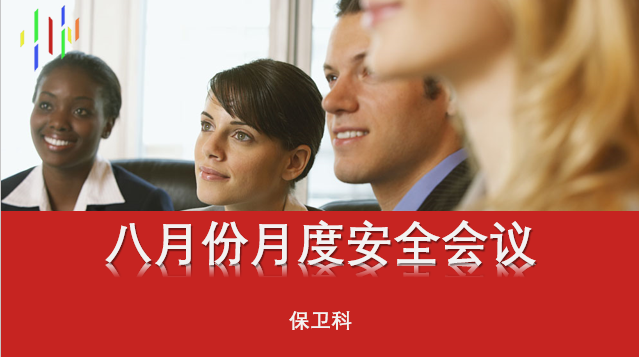
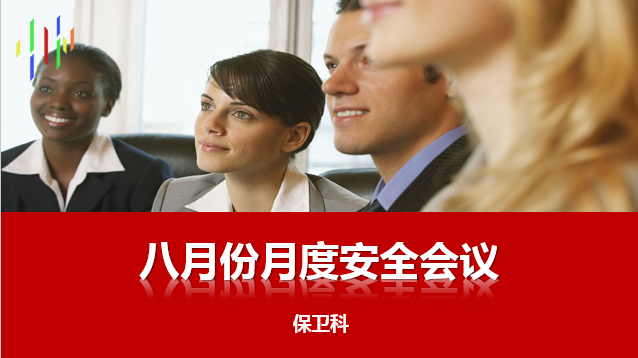
Site updated: 2017-06-08 19:57:51

diff --git a/2017/06/06/Introduction-to-PPT/index.html b/2017/06/06/Introduction-to-PPT/index.html
@@ -15,13 +15,14 @@
 <h5 id="大图格式二"><a href="#大图格式二" class="headerlink" title="大图格式二"></a>大图格式二</h5><p><img src="/2017/06/06/Introduction-to-PPT/1-2.png" alt="大图格式二"></p>
 <h5 id="大图格式三"><a href="#大图格式三" class="headerlink" title="大图格式三"></a>大图格式三</h5><p><img src="/2017/06/06/Introduction-to-PPT/1-3.png" alt="大图格式三"></p>
 <h5 id="大图格式四"><a href="#大图格式四" class="headerlink" title="大图格式四"></a>大图格式四</h5><p><img src="/2017/06/06/Introduction-to-PPT/1-4.png" alt="大图格式四"></p>
-<h5 id="图片调整"><a href="#图片调整" class="headerlink" title="图片调整"></a>图片调整</h5><ul>
+<h5 id="大图格式五"><a href="#大图格式五" class="headerlink" title="大图格式五"></a>大图格式五</h5><h6 id="图片调整"><a href="#图片调整" class="headerlink" title="图片调整"></a>图片调整</h6><ul>
 <li>明暗  – 更正（亮度、对比度）</li>
 <li>色调 – 颜色（饱和度、色调、透明色）</li>
 <li>删除背景</li>
 </ul>
 <p><img src="/2017/06/06/Introduction-to-PPT/1-5.png" alt="删除背景"></p>
-<h5 id="突出文字"><a href="#突出文字" class="headerlink" title="突出文字"></a>突出文字</h5><p><img src="/2017/06/06/Introduction-to-PPT/1-6.png" alt="突出文字"></p>
+<h6 id="突出文字"><a href="#突出文字" class="headerlink" title="突出文字"></a>突出文字</h6><p><img src="/2017/06/06/Introduction-to-PPT/1-6.png" alt="突出文字"></p>
+<p><img src="/2017/06/06/Introduction-to-PPT/1-6-1.png" alt="大图格式五"></p>
 <h5 id="大图格式六"><a href="#大图格式六" class="headerlink" title="大图格式六"></a>大图格式六</h5><p>边缘减弱 – 渐变填充，过渡 – 位置0%，白色，透明0% ；线性向右； 位置100%，白色，透明100% </p>
 <p>文字 – 统一方向对齐</p>
 <p><img src="/2017/06/06/Introduction-to-PPT/1-7.png" alt="大图格式六"></p>
@@ -86,5 +87,5 @@
 <h4 id="1-4-小图型"><a href="#1-4-小图型" class="headerlink" title="1.4 小图型"></a>1.4 小图型</h4><p>搭配腰线，可带阴影</p>
 <p><img src="/2017/06/06/Introduction-to-PPT/1-24.png" alt="小图阴影"></p>
 <p><img src="/2017/06/06/Introduction-to-PPT/1-25.png" alt="小图格式一"></p>
-<h3 id="2-目录页"><a href="#2-目录页" class="headerlink" title="2. 目录页"></a>2. 目录页</h3><h3 id="3-过渡页"><a href="#3-过渡页" class="headerlink" title="3. 过渡页"></a>3. 过渡页</h3><h3 id="4-内容页"><a href="#4-内容页" class="headerlink" title="4. 内容页"></a>4. 内容页</h3><h3 id="5-导航页码"><a href="#5-导航页码" class="headerlink" title="5. 导航页码"></a>5. 导航页码</h3><h3 id="6-结束页"><a href="#6-结束页" class="headerlink" title="6. 结束页"></a>6. 结束页</h3><h3 id="7-整体"><a href="#7-整体" class="headerlink" title="7. 整体"></a>7. 整体</h3><h3 id="8-自动化"><a href="#8-自动化" class="headerlink" title="8. 自动化"></a>8. 自动化</h3><h3 id="9-动画"><a href="#9-动画" class="headerlink" title="9. 动画"></a>9. 动画</h3><h3 id="10-放映"><a href="#10-放映" class="headerlink" title="10. 放映"></a>10. 放映</h3></div><div class="tags"><a href="/tags/PPT/">PPT</a></div><div class="post-share"><div class="bdsharebuttonbox"><span style="float:left;line-height: 28px;height: 28px;font-size:16px;font-weight:blod">分享到：</span><a href="#" data-cmd="more" class="bds_more"></a><a href="#" data-cmd="mshare" title="分享到一键分享" class="bds_mshare"></a><a href="#" data-cmd="fbook" title="分享到Facebook" class="bds_fbook"></a><a href="#" data-cmd="twi" title="分享到Twitter" class="bds_twi"></a><a href="#" data-cmd="linkedin" title="分享到linkedin" class="bds_linkedin"></a><a href="#" data-cmd="youdao" title="分享到有道云笔记" class="bds_youdao"></a><a href="#" data-cmd="evernotecn" title="分享到印象笔记" class="bds_evernotecn"></a><a href="#" data-cmd="weixin" title="分享到微信" class="bds_weixin"></a><a href="#" data-cmd="qzone" title="分享到QQ空间" class="bds_qzone"></a><a href="#" data-cmd="tsina" title="分享到新浪微博" class="bds_tsina"></a></div></div><div class="post-nav"><a href="/2017/06/02/Introduction-to-DOM/" class="pre">Introduction to DOM</a></div><div id="comments"></div></div></div></div><div class="layout-r"><div id="sidebar"><div class="search-pla"></div><div id="toc" class="widget"><div class="widget-title"><i class="fa fa-fei">Inhalte</i></div><ol class="toc"><li class="toc-item toc-level-2"><a class="toc-link" href="#商务PPT入门"><span class="toc-text">商务PPT入门</span></a><ol class="toc-child"><li class="toc-item toc-level-3"><a class="toc-link" href="#1-封面页"><span class="toc-text">1. 封面页</span></a><ol class="toc-child"><li class="toc-item toc-level-4"><a class="toc-link" href="#1-1-大图"><span class="toc-text">1.1 大图</span></a><ol class="toc-child"><li class="toc-item toc-level-5"><a class="toc-link" href="#大图格式一"><span class="toc-text">大图格式一</span></a></li><li class="toc-item toc-level-5"><a class="toc-link" href="#大图格式二"><span class="toc-text">大图格式二</span></a></li><li class="toc-item toc-level-5"><a class="toc-link" href="#大图格式三"><span class="toc-text">大图格式三</span></a></li><li class="toc-item toc-level-5"><a class="toc-link" href="#大图格式四"><span class="toc-text">大图格式四</span></a></li><li class="toc-item toc-level-5"><a class="toc-link" href="#图片调整"><span class="toc-text">图片调整</span></a></li><li class="toc-item toc-level-5"><a class="toc-link" href="#突出文字"><span class="toc-text">突出文字</span></a></li><li class="toc-item toc-level-5"><a class="toc-link" href="#大图格式六"><span class="toc-text">大图格式六</span></a></li><li class="toc-item toc-level-5"><a class="toc-link" href="#大图格式七"><span class="toc-text">大图格式七</span></a></li></ol></li></ol></li><li class="toc-item toc-level-3"><a class="toc-link" href="#1-2-多图"><span class="toc-text">1.2 多图</span></a><ol class="toc-child"><li class="toc-item toc-level-5"><a class="toc-link" href="#多图格式一"><span class="toc-text">多图格式一</span></a></li><li class="toc-item toc-level-5"><a class="toc-link" href="#多图格式二"><span class="toc-text">多图格式二</span></a></li><li class="toc-item toc-level-5"><a class="toc-link" href="#多图格式三"><span class="toc-text">多图格式三</span></a></li><li class="toc-item toc-level-5"><a class="toc-link" href="#多图格式四"><span class="toc-text">多图格式四</span></a></li><li class="toc-item toc-level-5"><a class="toc-link" href="#多图格式五"><span class="toc-text">多图格式五</span></a></li><li class="toc-item toc-level-5"><a class="toc-link" href="#融合背景的形状"><span class="toc-text">融合背景的形状</span></a></li><li class="toc-item toc-level-5"><a class="toc-link" href="#多图格式六"><span class="toc-text">多图格式六</span></a></li></ol></li><li class="toc-item toc-level-4"><a class="toc-link" href="#1-3-全图型"><span class="toc-text">1.3 全图型</span></a><ol class="toc-child"><li class="toc-item toc-level-5"><a class="toc-link" href="#全图格式一"><span class="toc-text">全图格式一</span></a></li><li class="toc-item toc-level-5"><a class="toc-link" href="#全图格式二"><span class="toc-text">全图格式二</span></a></li><li class="toc-item toc-level-5"><a class="toc-link" href="#全图格式三"><span class="toc-text">全图格式三</span></a></li><li class="toc-item toc-level-5"><a class="toc-link" href="#全图格式四"><span class="toc-text">全图格式四</span></a></li><li class="toc-item toc-level-5"><a class="toc-link" href="#全图格式五"><span class="toc-text">全图格式五</span></a></li></ol></li><li class="toc-item toc-level-4"><a class="toc-link" href="#1-4-小图型"><span class="toc-text">1.4 小图型</span></a></li></ol></li><li class="toc-item toc-level-3"><a class="toc-link" href="#2-目录页"><span class="toc-text">2. 目录页</span></a></li><li class="toc-item toc-level-3"><a class="toc-link" href="#3-过渡页"><span class="toc-text">3. 过渡页</span></a></li><li class="toc-item toc-level-3"><a class="toc-link" href="#4-内容页"><span class="toc-text">4. 内容页</span></a></li><li class="toc-item toc-level-3"><a class="toc-link" href="#5-导航页码"><span class="toc-text">5. 导航页码</span></a></li><li class="toc-item toc-level-3"><a class="toc-link" href="#6-结束页"><span class="toc-text">6. 结束页</span></a></li><li class="toc-item toc-level-3"><a class="toc-link" href="#7-整体"><span class="toc-text">7. 整体</span></a></li><li class="toc-item toc-level-3"><a class="toc-link" href="#8-自动化"><span class="toc-text">8. 自动化</span></a></li><li class="toc-item toc-level-3"><a class="toc-link" href="#9-动画"><span class="toc-text">9. 动画</span></a></li><li class="toc-item toc-level-3"><a class="toc-link" href="#10-放映"><span class="toc-text">10. 放映</span></a></li></ol></li></ol></div><div class="widget"><div class="widget-title"><i class="fa fa-xie"> Letzte</i></div><ul class="post-list"><li class="post-list-item"><a class="post-list-link" href="/2017/06/06/Introduction-to-PPT/">Introduction to PPT</a></li><li class="post-list-item"><a class="post-list-link" href="/2017/06/02/Introduction-to-DOM/">Introduction to DOM</a></li><li class="post-list-item"><a class="post-list-link" href="/2017/05/29/Introduction-to-ECMAScript/">Introduction to ECMAScript</a></li><li class="post-list-item"><a class="post-list-link" href="/2017/05/21/Introduction-to-Javascript/">Introduction to Javascript</a></li><li class="post-list-item"><a class="post-list-link" href="/2017/05/19/Introduction-to-sorting-algorithm/">Introduction to sorting algorithm</a></li><li class="post-list-item"><a class="post-list-link" href="/2017/05/18/Using-javascript-to-walk-through-in-CodeCombat/">Using javascript to walk through in CodeCombat</a></li><li class="post-list-item"><a class="post-list-link" href="/2017/05/16/PPT-presentation-skills-from-rapidbbs/">PPT presentation skills from rapidbbs</a></li><li class="post-list-item"><a class="post-list-link" href="/2017/05/11/Introduction-to-React/">Introduction to React</a></li><li class="post-list-item"><a class="post-list-link" href="/2017/05/10/Introduction-to-page-making/">Introduction to page making</a></li><li class="post-list-item"><a class="post-list-link" href="/2017/05/09/Introduction-to-CSS/">Introduction to CSS</a></li></ul></div><div class="widget"><div class="widget-title"><i class="fa fa-gui"> Kategorien</i></div><ul class="category-list"><li class="category-list-item"><a class="category-list-link" href="/categories/General/">General</a><span class="category-list-count">1</span></li><li class="category-list-item"><a class="category-list-link" href="/categories/Office/">Office</a><span class="category-list-count">1</span></li><li class="category-list-item"><a class="category-list-link" href="/categories/WeChat/">WeChat</a><span class="category-list-count">1</span></li><li class="category-list-item"><a class="category-list-link" href="/categories/Web/">Web</a><span class="category-list-count">11</span></li><li class="category-list-item"><a class="category-list-link" href="/categories/algorithm/">algorithm</a><span class="category-list-count">1</span></li><li class="category-list-item"><a class="category-list-link" href="/categories/office/">office</a><span class="category-list-count">1</span></li><li class="category-list-item"><a class="category-list-link" href="/categories/web/">web</a><span class="category-list-count">1</span></li></ul></div><div class="widget"><div class="widget-title"><i class="fa fa-biao"> Tags</i></div><div class="tagcloud"><a href="/tags/sort/" style="font-size: 15px;">sort</a> <a href="/tags/CSS/" style="font-size: 15px;">CSS</a> <a href="/tags/DOM/" style="font-size: 15px;">DOM</a> <a href="/tags/PPT/" style="font-size: 15px;">PPT</a> <a href="/tags/HTML/" style="font-size: 15px;">HTML</a> <a href="/tags/Javascript/" style="font-size: 15px;">Javascript</a> <a href="/tags/React/" style="font-size: 15px;">React</a> <a href="/tags/MinApp/" style="font-size: 15px;">MinApp</a> <a href="/tags/jQuery/" style="font-size: 15px;">jQuery</a> <a href="/tags/Economic/" style="font-size: 15px;">Economic</a> <a href="/tags/Finance/" style="font-size: 15px;">Finance</a></div></div><div class="widget"><div class="widget-title"><i class="fa fa-archive"> Archiv</i></div><ul class="archive-list"><li class="archive-list-item"><a class="archive-list-link" href="/archives/2017/06/">June 2017</a></li><li class="archive-list-item"><a class="archive-list-link" href="/archives/2017/05/">May 2017</a></li><li class="archive-list-item"><a class="archive-list-link" href="/archives/2017/04/">April 2017</a></li></ul></div><div class="widget"><div class="widget-title"><i class="fa fa-you"> Blogroll</i></div><ul></ul><a href="https://hexo.io/zh-cn/" title="hexo" target="_blank">hexo</a><ul></ul><a href="https://www.diycode.cc/sites" title="diycode" target="_blank">diycode</a></div></div></div></div><a id="totop" href="#top"></a><div id="footer"><div class="footer-info"><p><a href="/baidusitemap.xml">Baidu Sitemap</a> |  <a href="/atom.xml">RSS</a> |  <a href="/about/">Über</a></p><p>本站总访问量：<i id="busuanzi_container_site_pv"><i id="busuanzi_value_site_pv"></i></i>次</p><p><span> Copyright &copy;<a href="/." rel="nofollow">castorSugar.</a></span><span> Theme by<a rel="nofollow" target="_blank" href="https://github.com/chaooo/hexo-theme-BlueLake"> BlueLake.</a></span><span> Count by<a href="http://busuanzi.ibruce.info/"> busuanzi.</a></span><span> Powered by<a rel="nofollow" target="_blank" href="https://hexo.io"> Hexo.</a></span></p></div></div></div><script src="https://dn-lbstatics.qbox.me/busuanzi/2.3/busuanzi.pure.mini.js" async></script><script type="text/javascript" src="/js/search.json.js?v=2.0.0"></script><script type="text/javascript" src="/js/toctotop.js?v=2.0.0" async></script><script>window._bd_share_config={"common":{"bdSnsKey":{},"bdText":"","bdMini":"2","bdMiniList":["mshare","weixin","tsina","qzone","linkedin","fbook","twi","print","renren","sqq","evernotecn","bdysc","tqq","tqf","bdxc","kaixin001","tieba","douban","bdhome","thx","ibaidu","meilishuo","mogujie","diandian","huaban","duitang","hx","fx","youdao","sdo","qingbiji","people","xinhua","mail","isohu","yaolan","wealink","ty","iguba","h163","copy"],"bdPic":"","bdStyle":"1","bdSize":"16"},"share":{},"image":{"viewList":["tsina","qzone","weixin","fbook","twi","linkedin","youdao","evernotecn","mshare"],"viewText":"分享到：","viewSize":"16"},"selectShare":{"bdContainerClass":null,"bdSelectMiniList":["tsina","qzone","weixin","fbook","twi","linkedin","youdao","evernotecn","mshare"]}};with(document)0[(getElementsByTagName('head')[0]||body).appendChild(createElement('script')).src='http://bdimg.share.baidu.com/static/api/js/share.js?v=89860593.js?cdnversion='+~(-new Date()/36e5)];
+<h3 id="2-目录页"><a href="#2-目录页" class="headerlink" title="2. 目录页"></a>2. 目录页</h3><h3 id="3-过渡页"><a href="#3-过渡页" class="headerlink" title="3. 过渡页"></a>3. 过渡页</h3><h3 id="4-内容页"><a href="#4-内容页" class="headerlink" title="4. 内容页"></a>4. 内容页</h3><h3 id="5-导航页码"><a href="#5-导航页码" class="headerlink" title="5. 导航页码"></a>5. 导航页码</h3><h3 id="6-结束页"><a href="#6-结束页" class="headerlink" title="6. 结束页"></a>6. 结束页</h3><h3 id="7-整体"><a href="#7-整体" class="headerlink" title="7. 整体"></a>7. 整体</h3><h3 id="8-自动化"><a href="#8-自动化" class="headerlink" title="8. 自动化"></a>8. 自动化</h3><h3 id="9-动画"><a href="#9-动画" class="headerlink" title="9. 动画"></a>9. 动画</h3><h3 id="10-放映"><a href="#10-放映" class="headerlink" title="10. 放映"></a>10. 放映</h3></div><div class="tags"><a href="/tags/PPT/">PPT</a></div><div class="post-share"><div class="bdsharebuttonbox"><span style="float:left;line-height: 28px;height: 28px;font-size:16px;font-weight:blod">分享到：</span><a href="#" data-cmd="more" class="bds_more"></a><a href="#" data-cmd="mshare" title="分享到一键分享" class="bds_mshare"></a><a href="#" data-cmd="fbook" title="分享到Facebook" class="bds_fbook"></a><a href="#" data-cmd="twi" title="分享到Twitter" class="bds_twi"></a><a href="#" data-cmd="linkedin" title="分享到linkedin" class="bds_linkedin"></a><a href="#" data-cmd="youdao" title="分享到有道云笔记" class="bds_youdao"></a><a href="#" data-cmd="evernotecn" title="分享到印象笔记" class="bds_evernotecn"></a><a href="#" data-cmd="weixin" title="分享到微信" class="bds_weixin"></a><a href="#" data-cmd="qzone" title="分享到QQ空间" class="bds_qzone"></a><a href="#" data-cmd="tsina" title="分享到新浪微博" class="bds_tsina"></a></div></div><div class="post-nav"><a href="/2017/06/02/Introduction-to-DOM/" class="pre">Introduction to DOM</a></div><div id="comments"></div></div></div></div><div class="layout-r"><div id="sidebar"><div class="search-pla"></div><div id="toc" class="widget"><div class="widget-title"><i class="fa fa-fei">Inhalte</i></div><ol class="toc"><li class="toc-item toc-level-2"><a class="toc-link" href="#商务PPT入门"><span class="toc-text">商务PPT入门</span></a><ol class="toc-child"><li class="toc-item toc-level-3"><a class="toc-link" href="#1-封面页"><span class="toc-text">1. 封面页</span></a><ol class="toc-child"><li class="toc-item toc-level-4"><a class="toc-link" href="#1-1-大图"><span class="toc-text">1.1 大图</span></a><ol class="toc-child"><li class="toc-item toc-level-5"><a class="toc-link" href="#大图格式一"><span class="toc-text">大图格式一</span></a></li><li class="toc-item toc-level-5"><a class="toc-link" href="#大图格式二"><span class="toc-text">大图格式二</span></a></li><li class="toc-item toc-level-5"><a class="toc-link" href="#大图格式三"><span class="toc-text">大图格式三</span></a></li><li class="toc-item toc-level-5"><a class="toc-link" href="#大图格式四"><span class="toc-text">大图格式四</span></a></li><li class="toc-item toc-level-5"><a class="toc-link" href="#大图格式五"><span class="toc-text">大图格式五</span></a><ol class="toc-child"><li class="toc-item toc-level-6"><a class="toc-link" href="#图片调整"><span class="toc-text">图片调整</span></a></li><li class="toc-item toc-level-6"><a class="toc-link" href="#突出文字"><span class="toc-text">突出文字</span></a></li></ol></li><li class="toc-item toc-level-5"><a class="toc-link" href="#大图格式六"><span class="toc-text">大图格式六</span></a></li><li class="toc-item toc-level-5"><a class="toc-link" href="#大图格式七"><span class="toc-text">大图格式七</span></a></li></ol></li></ol></li><li class="toc-item toc-level-3"><a class="toc-link" href="#1-2-多图"><span class="toc-text">1.2 多图</span></a><ol class="toc-child"><li class="toc-item toc-level-5"><a class="toc-link" href="#多图格式一"><span class="toc-text">多图格式一</span></a></li><li class="toc-item toc-level-5"><a class="toc-link" href="#多图格式二"><span class="toc-text">多图格式二</span></a></li><li class="toc-item toc-level-5"><a class="toc-link" href="#多图格式三"><span class="toc-text">多图格式三</span></a></li><li class="toc-item toc-level-5"><a class="toc-link" href="#多图格式四"><span class="toc-text">多图格式四</span></a></li><li class="toc-item toc-level-5"><a class="toc-link" href="#多图格式五"><span class="toc-text">多图格式五</span></a></li><li class="toc-item toc-level-5"><a class="toc-link" href="#融合背景的形状"><span class="toc-text">融合背景的形状</span></a></li><li class="toc-item toc-level-5"><a class="toc-link" href="#多图格式六"><span class="toc-text">多图格式六</span></a></li></ol></li><li class="toc-item toc-level-4"><a class="toc-link" href="#1-3-全图型"><span class="toc-text">1.3 全图型</span></a><ol class="toc-child"><li class="toc-item toc-level-5"><a class="toc-link" href="#全图格式一"><span class="toc-text">全图格式一</span></a></li><li class="toc-item toc-level-5"><a class="toc-link" href="#全图格式二"><span class="toc-text">全图格式二</span></a></li><li class="toc-item toc-level-5"><a class="toc-link" href="#全图格式三"><span class="toc-text">全图格式三</span></a></li><li class="toc-item toc-level-5"><a class="toc-link" href="#全图格式四"><span class="toc-text">全图格式四</span></a></li><li class="toc-item toc-level-5"><a class="toc-link" href="#全图格式五"><span class="toc-text">全图格式五</span></a></li></ol></li><li class="toc-item toc-level-4"><a class="toc-link" href="#1-4-小图型"><span class="toc-text">1.4 小图型</span></a></li></ol></li><li class="toc-item toc-level-3"><a class="toc-link" href="#2-目录页"><span class="toc-text">2. 目录页</span></a></li><li class="toc-item toc-level-3"><a class="toc-link" href="#3-过渡页"><span class="toc-text">3. 过渡页</span></a></li><li class="toc-item toc-level-3"><a class="toc-link" href="#4-内容页"><span class="toc-text">4. 内容页</span></a></li><li class="toc-item toc-level-3"><a class="toc-link" href="#5-导航页码"><span class="toc-text">5. 导航页码</span></a></li><li class="toc-item toc-level-3"><a class="toc-link" href="#6-结束页"><span class="toc-text">6. 结束页</span></a></li><li class="toc-item toc-level-3"><a class="toc-link" href="#7-整体"><span class="toc-text">7. 整体</span></a></li><li class="toc-item toc-level-3"><a class="toc-link" href="#8-自动化"><span class="toc-text">8. 自动化</span></a></li><li class="toc-item toc-level-3"><a class="toc-link" href="#9-动画"><span class="toc-text">9. 动画</span></a></li><li class="toc-item toc-level-3"><a class="toc-link" href="#10-放映"><span class="toc-text">10. 放映</span></a></li></ol></li></ol></div><div class="widget"><div class="widget-title"><i class="fa fa-xie"> Letzte</i></div><ul class="post-list"><li class="post-list-item"><a class="post-list-link" href="/2017/06/06/Introduction-to-PPT/">Introduction to PPT</a></li><li class="post-list-item"><a class="post-list-link" href="/2017/06/02/Introduction-to-DOM/">Introduction to DOM</a></li><li class="post-list-item"><a class="post-list-link" href="/2017/05/29/Introduction-to-ECMAScript/">Introduction to ECMAScript</a></li><li class="post-list-item"><a class="post-list-link" href="/2017/05/21/Introduction-to-Javascript/">Introduction to Javascript</a></li><li class="post-list-item"><a class="post-list-link" href="/2017/05/19/Introduction-to-sorting-algorithm/">Introduction to sorting algorithm</a></li><li class="post-list-item"><a class="post-list-link" href="/2017/05/18/Using-javascript-to-walk-through-in-CodeCombat/">Using javascript to walk through in CodeCombat</a></li><li class="post-list-item"><a class="post-list-link" href="/2017/05/16/PPT-presentation-skills-from-rapidbbs/">PPT presentation skills from rapidbbs</a></li><li class="post-list-item"><a class="post-list-link" href="/2017/05/11/Introduction-to-React/">Introduction to React</a></li><li class="post-list-item"><a class="post-list-link" href="/2017/05/10/Introduction-to-page-making/">Introduction to page making</a></li><li class="post-list-item"><a class="post-list-link" href="/2017/05/09/Introduction-to-CSS/">Introduction to CSS</a></li></ul></div><div class="widget"><div class="widget-title"><i class="fa fa-gui"> Kategorien</i></div><ul class="category-list"><li class="category-list-item"><a class="category-list-link" href="/categories/General/">General</a><span class="category-list-count">1</span></li><li class="category-list-item"><a class="category-list-link" href="/categories/Office/">Office</a><span class="category-list-count">1</span></li><li class="category-list-item"><a class="category-list-link" href="/categories/WeChat/">WeChat</a><span class="category-list-count">1</span></li><li class="category-list-item"><a class="category-list-link" href="/categories/Web/">Web</a><span class="category-list-count">11</span></li><li class="category-list-item"><a class="category-list-link" href="/categories/algorithm/">algorithm</a><span class="category-list-count">1</span></li><li class="category-list-item"><a class="category-list-link" href="/categories/office/">office</a><span class="category-list-count">1</span></li><li class="category-list-item"><a class="category-list-link" href="/categories/web/">web</a><span class="category-list-count">1</span></li></ul></div><div class="widget"><div class="widget-title"><i class="fa fa-biao"> Tags</i></div><div class="tagcloud"><a href="/tags/sort/" style="font-size: 15px;">sort</a> <a href="/tags/CSS/" style="font-size: 15px;">CSS</a> <a href="/tags/DOM/" style="font-size: 15px;">DOM</a> <a href="/tags/PPT/" style="font-size: 15px;">PPT</a> <a href="/tags/HTML/" style="font-size: 15px;">HTML</a> <a href="/tags/Javascript/" style="font-size: 15px;">Javascript</a> <a href="/tags/React/" style="font-size: 15px;">React</a> <a href="/tags/MinApp/" style="font-size: 15px;">MinApp</a> <a href="/tags/jQuery/" style="font-size: 15px;">jQuery</a> <a href="/tags/Economic/" style="font-size: 15px;">Economic</a> <a href="/tags/Finance/" style="font-size: 15px;">Finance</a></div></div><div class="widget"><div class="widget-title"><i class="fa fa-archive"> Archiv</i></div><ul class="archive-list"><li class="archive-list-item"><a class="archive-list-link" href="/archives/2017/06/">June 2017</a></li><li class="archive-list-item"><a class="archive-list-link" href="/archives/2017/05/">May 2017</a></li><li class="archive-list-item"><a class="archive-list-link" href="/archives/2017/04/">April 2017</a></li></ul></div><div class="widget"><div class="widget-title"><i class="fa fa-you"> Blogroll</i></div><ul></ul><a href="https://hexo.io/zh-cn/" title="hexo" target="_blank">hexo</a><ul></ul><a href="https://www.diycode.cc/sites" title="diycode" target="_blank">diycode</a></div></div></div></div><a id="totop" href="#top"></a><div id="footer"><div class="footer-info"><p><a href="/baidusitemap.xml">Baidu Sitemap</a> |  <a href="/atom.xml">RSS</a> |  <a href="/about/">Über</a></p><p>本站总访问量：<i id="busuanzi_container_site_pv"><i id="busuanzi_value_site_pv"></i></i>次</p><p><span> Copyright &copy;<a href="/." rel="nofollow">castorSugar.</a></span><span> Theme by<a rel="nofollow" target="_blank" href="https://github.com/chaooo/hexo-theme-BlueLake"> BlueLake.</a></span><span> Count by<a href="http://busuanzi.ibruce.info/"> busuanzi.</a></span><span> Powered by<a rel="nofollow" target="_blank" href="https://hexo.io"> Hexo.</a></span></p></div></div></div><script src="https://dn-lbstatics.qbox.me/busuanzi/2.3/busuanzi.pure.mini.js" async></script><script type="text/javascript" src="/js/search.json.js?v=2.0.0"></script><script type="text/javascript" src="/js/toctotop.js?v=2.0.0" async></script><script>window._bd_share_config={"common":{"bdSnsKey":{},"bdText":"","bdMini":"2","bdMiniList":["mshare","weixin","tsina","qzone","linkedin","fbook","twi","print","renren","sqq","evernotecn","bdysc","tqq","tqf","bdxc","kaixin001","tieba","douban","bdhome","thx","ibaidu","meilishuo","mogujie","diandian","huaban","duitang","hx","fx","youdao","sdo","qingbiji","people","xinhua","mail","isohu","yaolan","wealink","ty","iguba","h163","copy"],"bdPic":"","bdStyle":"1","bdSize":"16"},"share":{},"image":{"viewList":["tsina","qzone","weixin","fbook","twi","linkedin","youdao","evernotecn","mshare"],"viewText":"分享到：","viewSize":"16"},"selectShare":{"bdContainerClass":null,"bdSelectMiniList":["tsina","qzone","weixin","fbook","twi","linkedin","youdao","evernotecn","mshare"]}};with(document)0[(getElementsByTagName('head')[0]||body).appendChild(createElement('script')).src='http://bdimg.share.baidu.com/static/api/js/share.js?v=89860593.js?cdnversion='+~(-new Date()/36e5)];
 </script></body></html>
